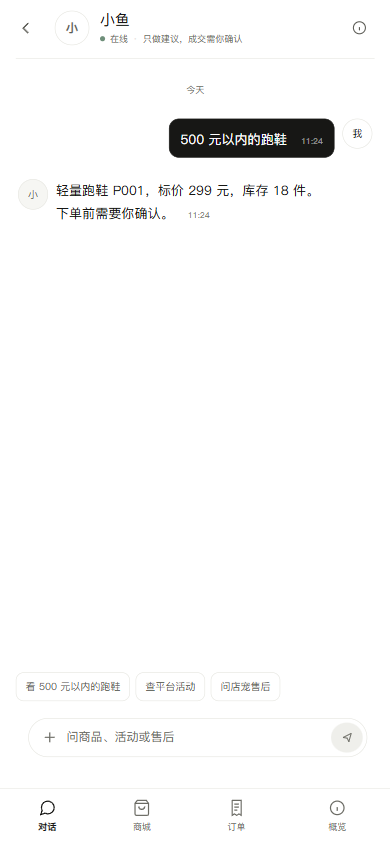
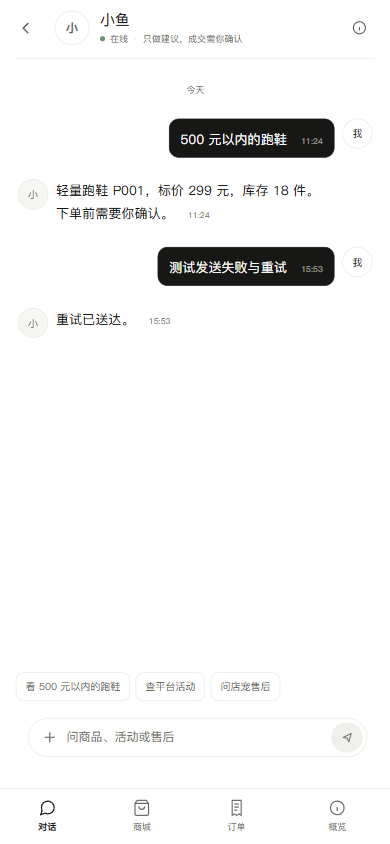
feat(c-end): polish mobile keyboard and retry
移动端对话增加 visualViewport 键盘适配、输入框自增高、发送失败重试条；重试不重复插入用户消息，保留安全区。

diff --git a/web/src/views/CApp.vue b/web/src/views/CApp.vue
@@ -120,6 +120,7 @@ const loadingOlderStore = ref(false);
 const storeHistoryHint = ref("");
 const agentBusy = ref(false);
 const agentError = ref("");
+const pendingRetry = ref(null);
 
 const activeThread = computed(() => threads.value.find((item) => item.id === activeId.value) || threads.value[0]);
 const messages = computed(() => messagesByThread.value[activeId.value] || []);
@@ -188,6 +189,29 @@ function scrollToBottom() {
     const el = document.getElementById("c-app-thread");
     if (el) el.scrollTop = el.scrollHeight;
   });
+}
+
+function syncViewportHeight() {
+  const height = window.visualViewport?.height || window.innerHeight;
+  if (!height) return;
+  document.documentElement.style.setProperty("--c-vh", `${height}px`);
+}
+
+function onViewportResize() {
+  syncViewportHeight();
+  scrollToBottom();
+}
+
+function onComposerFocus() {
+  syncViewportHeight();
+  window.setTimeout(scrollToBottom, 120);
+}
+
+function resizeComposer(event) {
+  const el = event?.target;
+  if (!el || el.tagName !== "TEXTAREA") return;
+  el.style.height = "auto";
+  el.style.height = `${Math.min(el.scrollHeight, 120)}px`;
 }
 
 function pushMessage(message) {
@@ -453,8 +477,30 @@ async function send() {
   if (!text || typing.value) return;
   pushMessage({ role: "user", text });
   draft.value = "";
+  const input = document.getElementById("c-app-input");
+  if (input) input.style.height = "auto";
+  pendingRetry.value = null;
   scrollToBottom();
+  await deliverText(text);
+}
 
+async function retrySend() {
+  const failed = pendingRetry.value;
+  if (!failed || typing.value) return;
+  if (failed.threadId !== activeId.value) {
+    pendingRetry.value = null;
+    return;
+  }
+  pendingRetry.value = null;
+  agentError.value = "";
+  await deliverText(failed.text, true);
+}
+
+function clearRetry() {
+  pendingRetry.value = null;
+}
+
+async function deliverText(text, isRetry = false) {
   if (activeId.value === "store_demo") {
     if (storeSocket && storeSocket.readyState === WebSocket.OPEN) {
       typing.value = true;
@@ -475,7 +521,7 @@ async function send() {
       agentError.value = "";
     } catch (error) {
       agentError.value = error?.detail || error?.message || "店宠暂时无法回应";
-      pushMessage({ role: "merchant", text: "店宠暂时忙碌，请稍后再试。" });
+      pendingRetry.value = { threadId: activeId.value, text };
     } finally {
       typing.value = false;
       scrollToBottom();
@@ -492,7 +538,7 @@ async function send() {
     return;
   }
 
-  await persistAppMessage("user", text);
+  if (!isRetry) await persistAppMessage("user", text);
   typing.value = true;
   try {
     const result = await postJson("/api/c/agent/run", {
@@ -518,9 +564,7 @@ async function send() {
     }
   } catch (error) {
     agentError.value = error?.detail || error?.message || "小鱼暂时无法回应";
-    const fallback = localReply(text);
-    pushMessage({ role: "companion", ...fallback });
-    await persistAppMessage("companion", fallback.text);
+    pendingRetry.value = { threadId: activeId.value, text };
   } finally {
     typing.value = false;
     scrollToBottom();
@@ -626,6 +670,9 @@ function selectMobileThread(id) {
 
 onMounted(async () => {
   await Promise.all([loadCompanion(), loadCompanionMessages()]);
+  syncViewportHeight();
+  window.visualViewport?.addEventListener("resize", onViewportResize);
+  window.visualViewport?.addEventListener("scroll", onViewportResize);
   window.addEventListener("online", onOnline);
   window.addEventListener("offline", onOffline);
   window.addEventListener("beforeinstallprompt", onBeforeInstall);
@@ -639,6 +686,8 @@ onMounted(async () => {
 });
 
 onBeforeUnmount(() => {
+  window.visualViewport?.removeEventListener("resize", onViewportResize);
+  window.visualViewport?.removeEventListener("scroll", onViewportResize);
   window.removeEventListener("online", onOnline);
   window.removeEventListener("offline", onOffline);
   window.removeEventListener("beforeinstallprompt", onBeforeInstall);
@@ -839,6 +888,16 @@ onBeforeUnmount(() => {
             </div>
           </div>
 
+          <div
+            v-if="pendingRetry && pendingRetry.threadId === activeId"
+            class="c-retry-row"
+            role="alert"
+          >
+            <span>消息没有发出去，内容已保留。</span>
+            <button type="button" class="c-retry-btn" @click="retrySend">重试</button>
+            <button type="button" class="c-retry-dismiss" @click="clearRetry">忽略</button>
+          </div>
+
           <div class="c-prompt-row">
             <button type="button" class="c-prompt" @click="sendPrompt('看 500 元以内的跑鞋')">看 500 元以内的跑鞋</button>
             <button type="button" class="c-prompt" @click="sendPrompt('查平台活动')">查平台活动</button>
@@ -858,6 +917,8 @@ onBeforeUnmount(() => {
                 v-model="draft"
                 rows="1"
                 placeholder="问商品、活动或售后"
+                @focus="onComposerFocus"
+                @input="resizeComposer"
                 @keydown.enter.exact.prevent="send"
               />
               <button type="submit" class="c-send-btn" :disabled="!draft.trim() || typing" aria-label="发送">
@@ -2796,6 +2857,41 @@ onBeforeUnmount(() => {
   background: var(--c-panel);
 }
 
+.c-app .c-retry-row {
+  display: flex;
+  align-items: center;
+  gap: 7px;
+  margin: 4px 0 6px;
+  padding: 7px 9px;
+  border: 1px solid rgba(122, 99, 64, 0.22);
+  border-radius: 8px;
+  background: rgba(160, 138, 100, 0.08);
+  color: var(--c-warning);
+  font-size: 9px;
+}
+
+.c-app .c-retry-row > span {
+  min-width: 0;
+  flex: 1;
+}
+
+.c-app .c-retry-btn,
+.c-app .c-retry-dismiss {
+  padding: 3px 7px;
+  border: 1px solid currentColor;
+  border-radius: 6px;
+  background: transparent;
+  color: inherit;
+  font: inherit;
+  font-size: 9px;
+  cursor: pointer;
+}
+
+.c-app .c-retry-dismiss {
+  border-color: transparent;
+  color: var(--c-text-3);
+}
+
 .c-app .c-composer {
   padding: 7px 7px 7px 12px;
   border-color: var(--c-line);
@@ -2877,6 +2973,25 @@ onBeforeUnmount(() => {
 
 /* 移动端对话：更紧凑的头部、更清晰的发件块 */
 @media (max-width: 760px) {
+  .c-app {
+    height: var(--c-vh, 100dvh);
+    min-height: 0;
+  }
+
+  .c-app .c-shell {
+    height: 100%;
+    min-height: 0;
+  }
+
+  .c-app .c-main {
+    height: 100%;
+    min-height: 0;
+  }
+
+  .c-app .c-chat {
+    min-height: 0;
+  }
+
   .c-app .c-message {
     max-width: 88%;
   }

diff --git a/AGENTS.md b/AGENTS.md
@@ -1,6 +1,6 @@
 # Qianke Agent 项目级 AI Coding Agent 工作协议
 
-> **Version:** 1.7.7 · **Status:** Active · **Product:** Qianke Agent
+> **Version:** 1.7.8 · **Status:** Active · **Product:** Qianke Agent
 > 本文件约束 AI Coding Agent 的工作方式；产品需求、接口和模型以对应文档为准。
 
 ## 0. 十条硬规则
@@ -434,7 +434,7 @@ IM 社交载体
 
 | 项 | 当前值 |
 |---|---|
-| AGENTS.md | v1.7.7 |
+| AGENTS.md | v1.7.8 |
 | Product | Qianke Agent |
 | Positioning | Enterprise Analysis + C-end Commerce + IM Social Commerce Agent Platform |
 | Primary | B 端经营分析 / C 端导购与模拟订单 |
@@ -485,3 +485,4 @@ IM 社交载体
 | 1.7.5 | 2026-10-29 | 新增白色极简对话方案：行式消息、浅灰自发、细边框输入与报价卡；预览页支持 ?focus=white 全屏对比 |
 | 1.7.6 | 2026-10-29 | C 端 App 正式切换白色极简对话：白纸面、行式收件、浅灰发件、黑色发送、PWA 主题色同步为白 |
 | 1.7.7 | 2026-10-29 | 对话消息增加角色头像；发件改为深色 ink 块 + 白字，提升自身消息辨识度；移动端收紧头部/间距并保留安全区 |
+| 1.7.8 | 2026-10-29 | 移动端对话补齐 visualViewport 键盘适配、输入框自增高、失败重试条；重试不重复插入用户消息 |

diff --git a/docs/product/c-end-ui-reference.md b/docs/product/c-end-ui-reference.md
@@ -84,9 +84,11 @@ https://mobbin.com/apps/whats-app-ios-8738dbc9-e7a8-4fef-91e5-6afd1c9d092b
 
 ```text
 390 × 844 无横向溢出
+键盘弹起（visualViewport 高度变化）输入框仍可见
 对话页返回按钮打开消息列表
 消息列表搜索 / 选中会话可用
 底部导航与气泡内时间正常
+发送失败出现重试条，重试不重复插入用户消息
 控制台错误 0
 ```
 

diff --git a/docs/design/DESIGN.md b/docs/design/DESIGN.md
@@ -496,6 +496,8 @@ ID / 金额 / 时间 / 指标 / 表格数字：mono
 输入：细边框
 报价：白底细边框
 确认按钮：黑色
+移动端：visualViewport 高度同步，键盘弹起输入区不丢
+失败状态：保留已发送内容，显示重试条，不是自动重复发送
 ```
 
 实现文件：
